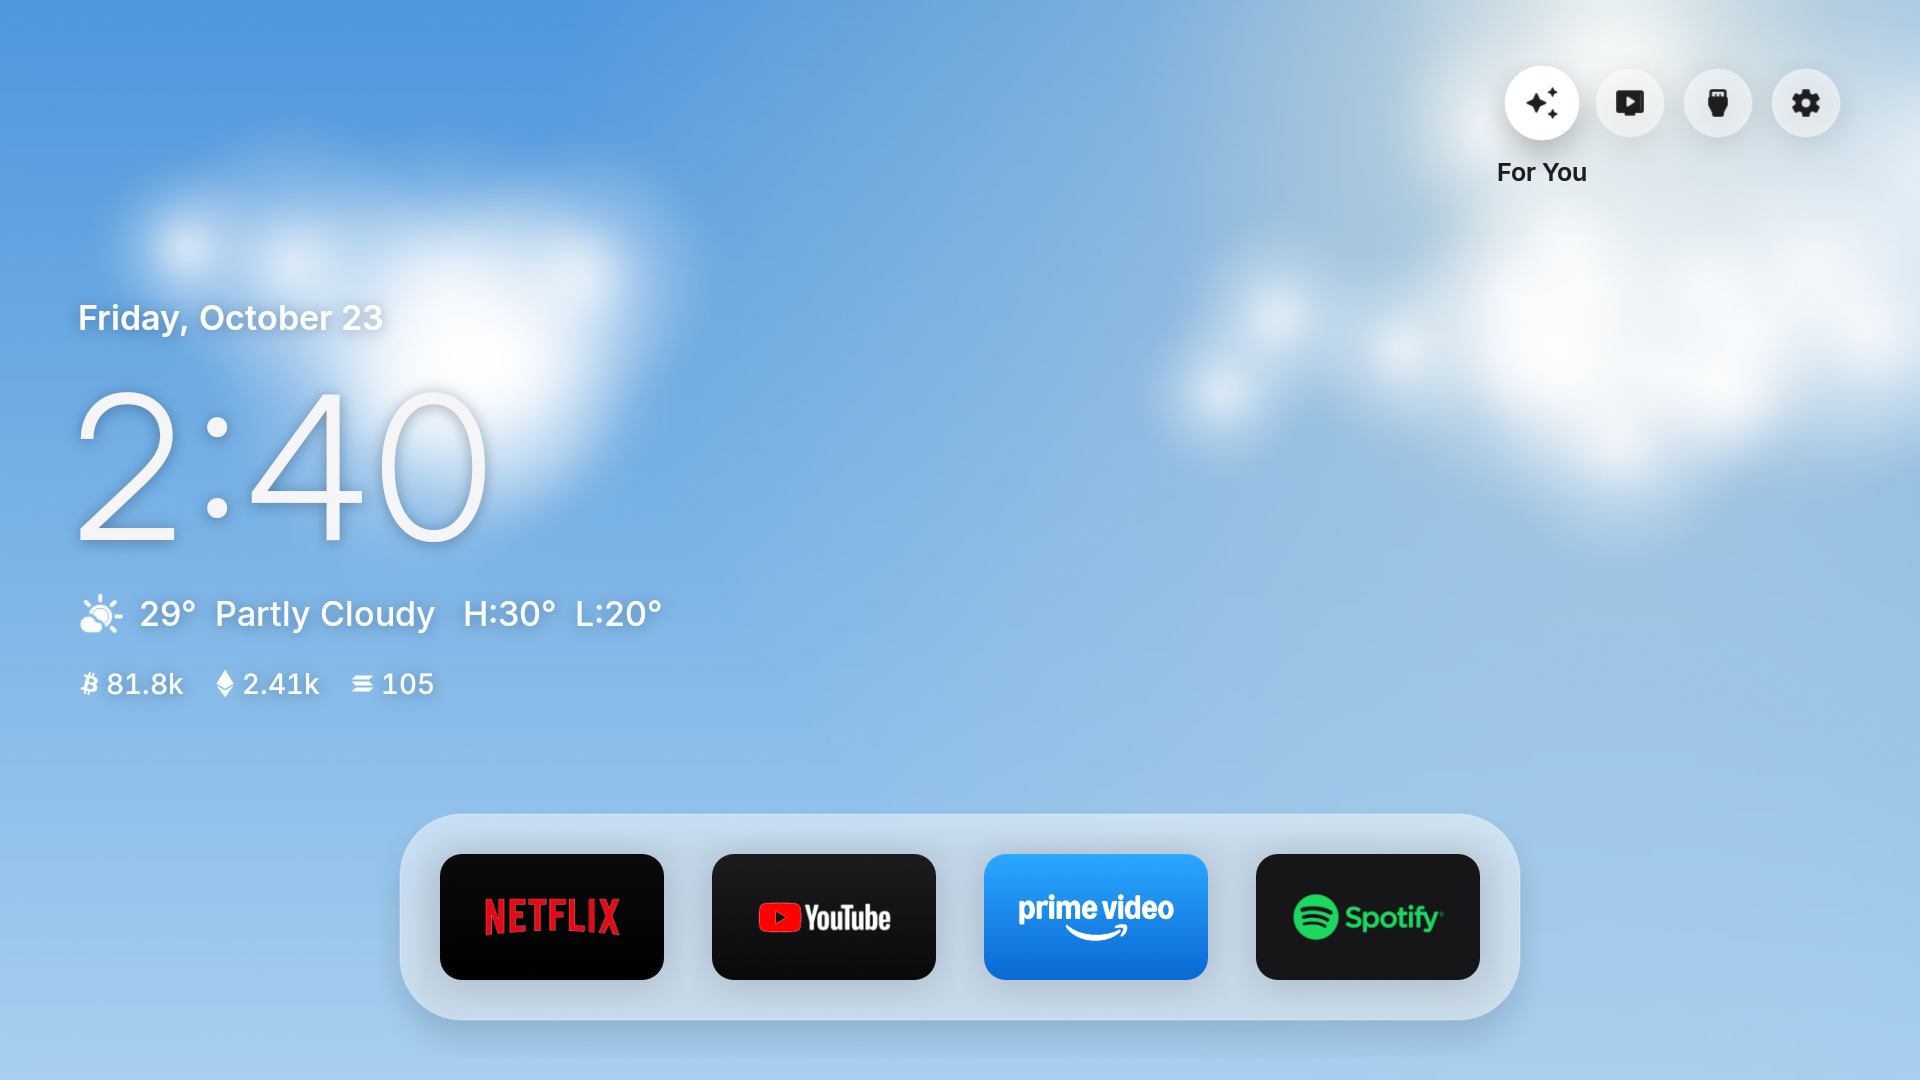
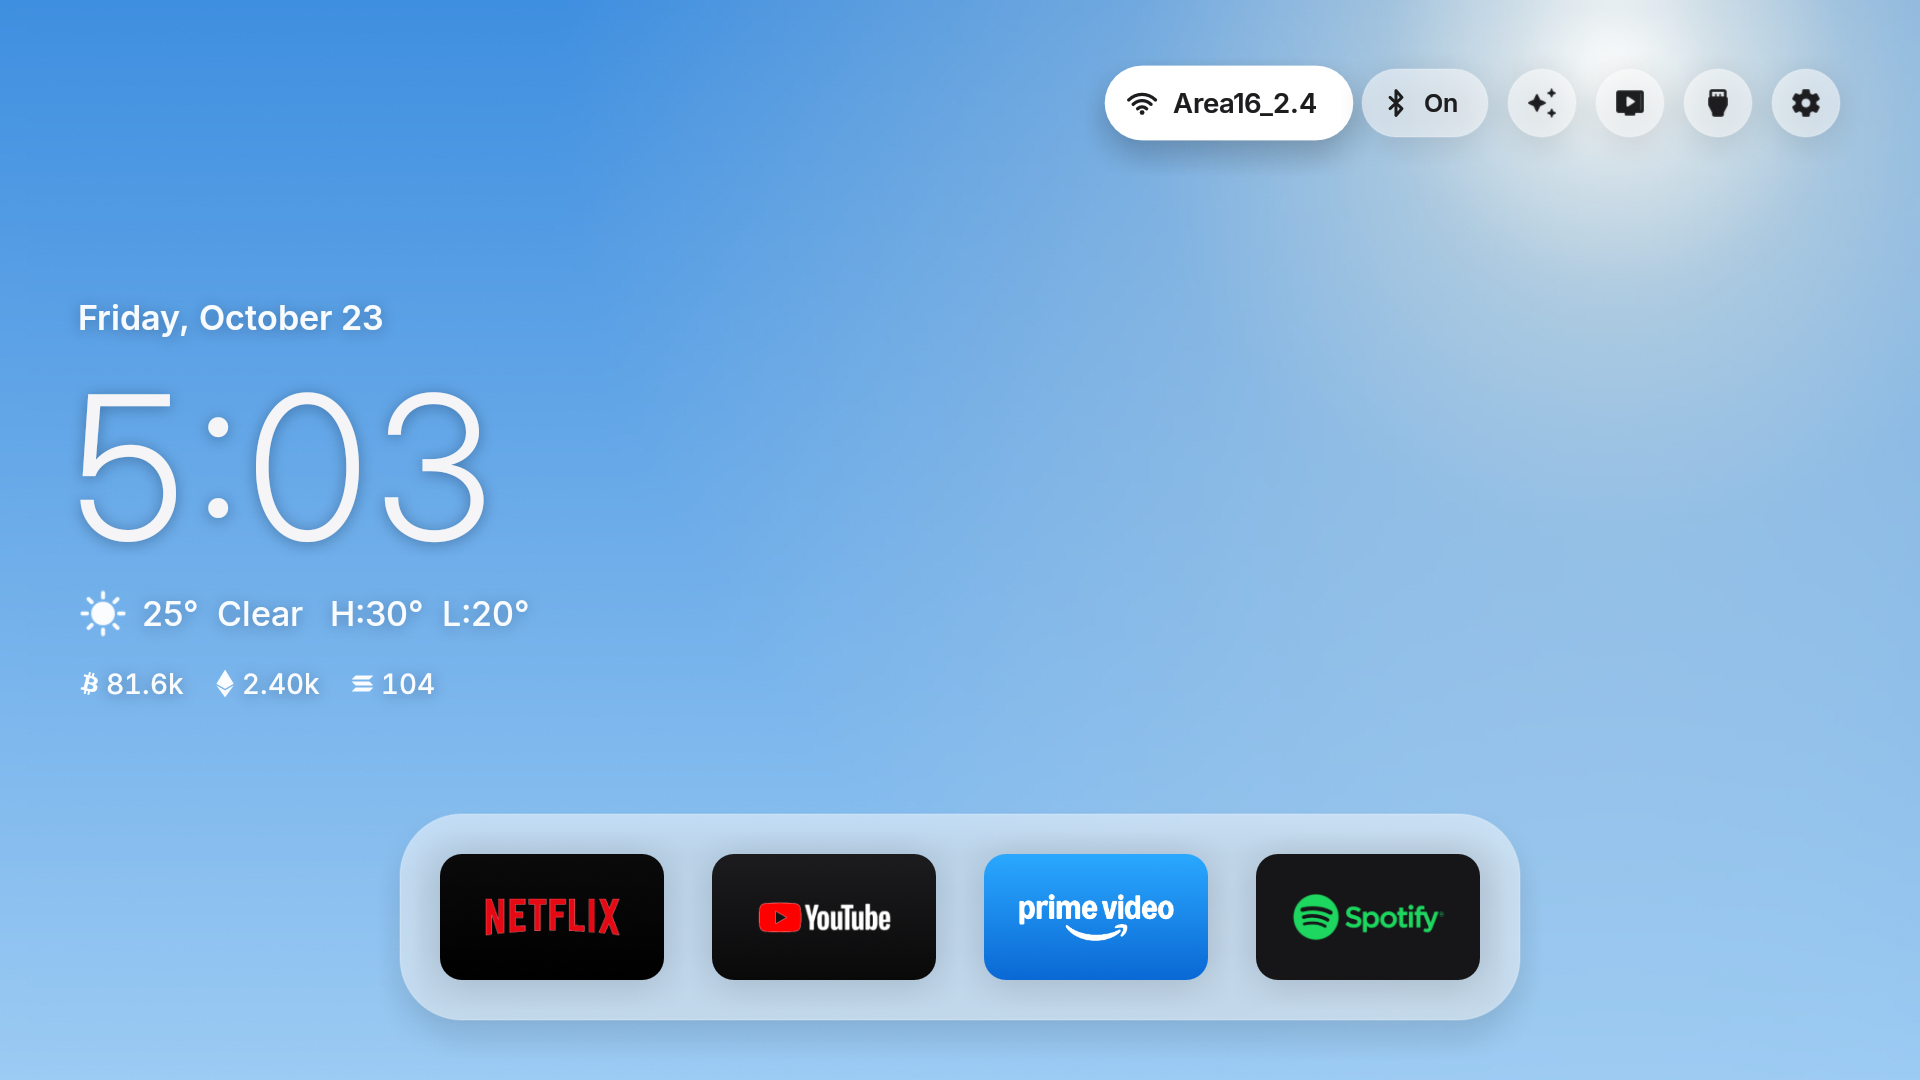
Wi-Fi and Bluetooth pills on the home screen
Two status pills before the round buttons: the Wi-Fi network's name (or
Ethernet, Not connected) and Bluetooth Off, On or Connected, refreshed every
15 s and on coming back. They open the TV's network page and Android TV's
add-accessory page (Settings if the TV has neither). New strings in all 25
catalogues.

diff --git a/app/src/main/java/io/sundartv/HomeView.java b/app/src/main/java/io/sundartv/HomeView.java
@@ -147,6 +147,11 @@ final class HomeView extends ViewGroup implements Choreographer.FrameCallback, H
     private List<Recs.Pick> allCards = new ArrayList<>();
     private int cardOffset;
     private boolean picksPage;      // the recommendations page is open (see picksOn)
+    // The Wi-Fi and Bluetooth pills (top buttons that show a status): their text, and how they're drawn.
+    private String wifiText = "", bluetoothText = "";
+    private Paint pillText, pillIcon;
+    private final Path pillPath = new Path();
+    private final RectF pillArc = new RectF();
     // Held on a card for a moment, its synopsis rises over the picture: since when it's held, and how far it's up.
     private static final long EXPAND_MS = 1500;
     private long cardFocusAt;
@@ -370,6 +375,7 @@ final class HomeView extends ViewGroup implements Choreographer.FrameCallback, H
             updatePalette();
             checkNight(true);
             updatePicks();      // three new ones every hour
+            updatePills();
             handler.postDelayed(this, 15_000);
         }
     };
@@ -446,6 +452,7 @@ final class HomeView extends ViewGroup implements Choreographer.FrameCallback, H
         checkNotices();
         if (!again) reload();
         updatePalette();
+        updatePills();      // back from the TV's network or pairing page: show what changed
         // Coming back (from an app, or with Home) opens on the clock, not on the recommendations page.
         if (picksPage) {
             picksPage = false;
@@ -629,6 +636,11 @@ final class HomeView extends ViewGroup implements Choreographer.FrameCallback, H
         synopsisPaint.setShadowLayer(10 * k, 0, 1 * k, 0x80000000);
         synopses.clear();
         lQuote = Ui.numbers(Ui.regular, 21 * k, L_FAINT);
+        pillText = Ui.text(Ui.semibold, 25 * k, L_INK);
+        pillIcon = new Paint(Paint.ANTI_ALIAS_FLAG);
+        pillIcon.setStyle(Paint.Style.STROKE);
+        pillIcon.setStrokeCap(Paint.Cap.ROUND);
+        pillIcon.setStrokeJoin(Paint.Join.ROUND);
         lTip = Ui.text(Ui.semibold, 25 * k, L_INK);
         lTip.setTextAlign(Paint.Align.CENTER);
         lDate = Ui.text(Ui.semibold, 34 * k, L_DIM);
@@ -2788,8 +2800,11 @@ final class HomeView extends ViewGroup implements Choreographer.FrameCallback, H
         }
         float b = L_BUTTON * k, right = CONTENT_R * k, cy = L_BUTTON_CY * k;
         for (int i = lightButtons.size() - 1; i >= 0; i--) {
-            topRects[TABS + i].set(right - b, cy - b / 2, right, cy + b / 2);
-            right -= b + L_BUTTON_GAP * k;
+            HomeApps.Item it = lightButtons.get(i);
+            // A pill: the icon's circle plus its status text.
+            float width = isPill(it) ? b + pillText.measureText(pillLabel(it)) + 24 * k : b;
+            topRects[TABS + i].set(right - width, cy - b / 2, right, cy + b / 2);
+            right -= width + L_BUTTON_GAP * k;
         }
         float top = L_CARDS_TOP * k, ch = L_CARD_H * k, g = L_CARD_GAP * k, left = MARGIN * k, tall = L_TALL_W * k;
         float wide = (CONTENT_R - MARGIN) * k - 2 * tall - 2 * g;
@@ -3106,8 +3121,10 @@ final class HomeView extends ViewGroup implements Choreographer.FrameCallback, H
         for (int i = 0; i < lightButtons.size(); i++) {
             HomeApps.Item it = lightButtons.get(i);
             RectF r = topRects[TABS + i];
-            float f = Ui.clamp(topFocus[TABS + i].value), s = 1 + 0.1f * f, rad = r.width() / 2 * s;
-            cell.set(r.centerX() - rad, r.centerY() - rad, r.centerX() + rad, r.centerY() + rad);
+            boolean pill = isPill(it);
+            float f = Ui.clamp(topFocus[TABS + i].value), s = 1 + 0.1f * f;
+            float rad = r.height() / 2 * s, halfW = r.width() / 2 * s;
+            cell.set(r.centerX() - halfW, r.centerY() - rad, r.centerX() + halfW, r.centerY() + rad);
             tmp.set(cell);
             tmp.offset(0, (6 + 8 * f) * k);
             shadow.setColor(Ui.alpha(0xFF000000, tone(0.1f, 0.3f) + tone(0.14f, 0.2f) * f));
@@ -3117,10 +3134,18 @@ final class HomeView extends ViewGroup implements Choreographer.FrameCallback, H
             if (f > 0.01f) {
                 fill.setShader(null);
                 fill.setColor(Ui.alpha(0xFFFFFFFF, f));
-                c.drawCircle(cell.centerX(), cell.centerY(), rad, fill);
+                c.drawRoundRect(cell, rad, rad, fill);
             }
-            Symbols.draw(getContext(), c, it.symbol, cell.centerX(), cell.centerY(), 27 * k * s,
-                    blend(tone(L_INK, 0xEBFFFFFF), L_INK, f));
+            int ink = blend(tone(L_INK, 0xEBFFFFFF), L_INK, f);
+            if (pill) {
+                drawPillIcon(c, it.kind, cell.left + rad, cell.centerY(), 27 * k * s, ink);
+                pillText.setTextSize(25 * k * s);
+                pillText.setColor(ink);
+                c.drawText(pillLabel(it), cell.left + 2 * rad - 6 * k * s, cell.centerY() + Ui.halfCap(pillText), pillText);
+                pillText.setTextSize(25 * k);
+                continue;   // the pill says what it is: no name below it
+            }
+            Symbols.draw(getContext(), c, it.symbol, cell.centerX(), cell.centerY(), 27 * k * s, ink);
             if (f > 0.01f) {
                 String label = it.label;
                 float half = lTip.measureText(label) / 2;
@@ -3128,6 +3153,53 @@ final class HomeView extends ViewGroup implements Choreographer.FrameCallback, H
                 lTip.setAlpha(Math.round(255 * f));
                 c.drawText(label, x, r.bottom + (40 + 4 * f) * k, lTip);
             }
+        }
+    }
+
+    private static boolean isPill(HomeApps.Item it) {
+        return it.kind == HomeApps.WIFI || it.kind == HomeApps.BLUETOOTH;
+    }
+
+    private String pillLabel(HomeApps.Item it) {
+        return it.kind == HomeApps.WIFI ? wifiText : bluetoothText;
+    }
+
+    /** The pills' text (every 15 s and on coming back): laid out again only when it changed. */
+    private void updatePills() {
+        String wifi = Connectivity.network(getContext()), bt = Connectivity.bluetooth();
+        if (bt == null) bt = "";
+        if (wifi.equals(wifiText) && bt.equals(bluetoothText)) return;
+        wifiText = wifi;
+        bluetoothText = bt;
+        if (pillText != null) layoutLight();
+        statusDirty = true;
+        status.invalidate();
+    }
+
+    /** Wi-Fi: a dot and three arcs. Bluetooth: its rune. Drawn (no symbol for them), centered on x, y. */
+    private void drawPillIcon(Canvas c, int kind, float x, float y, float size, int color) {
+        pillIcon.setColor(color);
+        pillIcon.setStrokeWidth(size * 0.11f);
+        if (kind == HomeApps.WIFI) {
+            float base = y + size * 0.34f;
+            for (int i = 1; i <= 3; i++) {
+                float r = size * 0.21f * i;
+                pillArc.set(x - r, base - r, x + r, base + r);
+                c.drawArc(pillArc, 225, 90, false, pillIcon);
+            }
+            pillIcon.setStyle(Paint.Style.FILL);
+            c.drawCircle(x, base - size * 0.02f, size * 0.08f, pillIcon);
+            pillIcon.setStyle(Paint.Style.STROKE);
+        } else {
+            float h = size * 0.46f, w = size * 0.22f;
+            pillPath.reset();
+            pillPath.moveTo(x - w, y - h * 0.45f);
+            pillPath.lineTo(x + w, y + h * 0.45f);
+            pillPath.lineTo(x, y + h);
+            pillPath.lineTo(x, y - h);
+            pillPath.lineTo(x + w, y - h * 0.45f);
+            pillPath.lineTo(x - w, y + h * 0.45f);
+            c.drawPath(pillPath, pillIcon);
         }
     }
 

diff --git a/app/src/main/java/io/sundartv/HomeApps.java b/app/src/main/java/io/sundartv/HomeApps.java
@@ -59,6 +59,8 @@ final class HomeApps {
     static final int INPUTS = 7;
     /** The For You button: opens the recommendations page (the home screen handles it; only with a TMDB key). */
     static final int PICKS = 8;
+    /** The Wi-Fi and Bluetooth pills: the TV's network page and its "add accessory" (pairing) page. */
+    static final int WIFI = 9, BLUETOOTH = 10;
     /** Image size of each card (16:9; on screen it shows up to ~330 px wide). */
     static final int TILE_W = 384, TILE_H = 216;
 
@@ -189,9 +191,10 @@ final class HomeApps {
 
     // MARK: - Top buttons (the round ones at the top right)
 
-    static final String TOP_PICKS = "picks", TOP_LIVE = "live", TOP_INPUTS = "inputs", TOP_SETTINGS = "settings";
-    static final List<String> TOP_DEFAULT =
-            Collections.unmodifiableList(java.util.Arrays.asList(TOP_PICKS, TOP_LIVE, TOP_INPUTS, TOP_SETTINGS));
+    static final String TOP_WIFI = "wifi", TOP_BLUETOOTH = "bluetooth", TOP_PICKS = "picks", TOP_LIVE = "live",
+            TOP_INPUTS = "inputs", TOP_SETTINGS = "settings";
+    static final List<String> TOP_DEFAULT = Collections.unmodifiableList(
+            java.util.Arrays.asList(TOP_WIFI, TOP_BLUETOOTH, TOP_PICKS, TOP_LIVE, TOP_INPUTS, TOP_SETTINGS));
     static final int MAX_TOP = TOP_DEFAULT.size();
 
     /** The keys of the top buttons, in order (Settings > Top Buttons; by default Live TV, HDMI Inputs, Settings). */
@@ -208,6 +211,7 @@ final class HomeApps {
         List<Item> items = new ArrayList<>();
         for (String key : topButtonKeys()) {
             if (key.equals(TOP_PICKS) && Config.TMDB_KEY.trim().isEmpty()) continue;
+            if (key.equals(TOP_BLUETOOTH) && Connectivity.bluetooth() == null) continue;
             items.add(topButton(key));
         }
         return items;
@@ -215,6 +219,8 @@ final class HomeApps {
 
     private static Item topButton(String key) {
         switch (key) {
+            case TOP_WIFI: return action(WIFI, TOP_WIFI, Ui.tr("Wi-Fi"), "wifi");
+            case TOP_BLUETOOTH: return action(BLUETOOTH, TOP_BLUETOOTH, "Bluetooth", "bluetooth");
             case TOP_PICKS: return action(PICKS, TOP_PICKS, Ui.tr("For You"), "sparkles");
             case TOP_LIVE: return action(LIVE_TV, TOP_LIVE, Ui.tr("light|Live TV"), "live_tv");
             case TOP_INPUTS: return action(INPUTS, TOP_INPUTS, Ui.tr("HDMI Inputs"), "hdmi");
@@ -434,8 +440,19 @@ final class HomeApps {
             case ANDROID_SETTINGS:
                 intent = new Intent(Settings.ACTION_SETTINGS);
                 break;
+            case WIFI:
+                intent = new Intent(Settings.ACTION_WIFI_SETTINGS);
+                break;
+            case BLUETOOTH:
+                // Android TV's "add accessory": pairs speakers, headphones, remotes and keyboards.
+                intent = new Intent("com.google.android.intent.action.CONNECT_INPUT");
+                break;
             default:
                 return false;
+        }
+        // A TV without that page: its Settings.
+        if ((it.kind == WIFI || it.kind == BLUETOOTH) && intent.resolveActivity(a.getPackageManager()) == null) {
+            intent = new Intent(Settings.ACTION_SETTINGS);
         }
         if (intent == null) return false;
         intent.addFlags(Intent.FLAG_ACTIVITY_NEW_TASK);

diff --git a/app/src/main/java/io/sundartv/Connectivity.java b/app/src/main/java/io/sundartv/Connectivity.java
@@ -1,0 +1,53 @@
+package io.sundartv;
+
+import android.bluetooth.BluetoothAdapter;
+import android.bluetooth.BluetoothProfile;
+import android.content.Context;
+import android.net.ConnectivityManager;
+import android.net.NetworkInfo;
+import android.net.wifi.WifiManager;
+
+/**
+ * What the Wi-Fi and Bluetooth pills at the top right of the home screen say. Joining a network or pairing a device
+ * is the TV's own Settings' job (apps can't), so the pills open those pages directly (HomeApps.open).
+ */
+final class Connectivity {
+    private Connectivity() {}
+
+    /** The Wi-Fi network's name, "Ethernet", or "Not connected". */
+    static String network(Context c) {
+        try {
+            ConnectivityManager cm = (ConnectivityManager) c.getSystemService(Context.CONNECTIVITY_SERVICE);
+            NetworkInfo n = cm == null ? null : cm.getActiveNetworkInfo();
+            if (n != null && n.isConnected()) {
+                if (n.getType() == ConnectivityManager.TYPE_ETHERNET) return Ui.tr("Ethernet");
+                if (n.getType() != ConnectivityManager.TYPE_WIFI) return Ui.tr("Connected");
+                WifiManager wm = (WifiManager) c.getApplicationContext().getSystemService(Context.WIFI_SERVICE);
+                String ssid = wm == null ? null : wm.getConnectionInfo().getSSID();
+                // Android quotes the name; "<unknown ssid>" when it won't say.
+                if (ssid != null && ssid.length() > 2 && ssid.startsWith("\"") && ssid.endsWith("\"")) {
+                    return ssid.substring(1, ssid.length() - 1);
+                }
+                return Ui.tr("Wi-Fi");
+            }
+        } catch (RuntimeException ignored) {
+        }
+        return Ui.tr("Not connected");
+    }
+
+    /** "Off", "On", or "Connected" (a speaker, headphones, a keyboard or a remote); null on a TV without Bluetooth. */
+    static String bluetooth() {
+        try {
+            BluetoothAdapter a = BluetoothAdapter.getDefaultAdapter();
+            if (a == null) return null;
+            if (!a.isEnabled()) return Ui.tr("Off");
+            // 4: BluetoothProfile.INPUT_DEVICE (hidden in the SDK), remotes and keyboards.
+            for (int profile : new int[] {BluetoothProfile.A2DP, BluetoothProfile.HEADSET, 4}) {
+                if (a.getProfileConnectionState(profile) == BluetoothProfile.STATE_CONNECTED) return Ui.tr("Connected");
+            }
+            return Ui.tr("On");
+        } catch (RuntimeException e) {
+            return Ui.tr("On");
+        }
+    }
+}

diff --git a/README.md b/README.md
@@ -26,6 +26,8 @@ follows the sky outside.
   with the time, date and weather at the top.
 - **Settings over a frosted mountain lake** at dusk.
 - **The clock and the weather** at a glance, with text colors that match the sky.
+- **Wi-Fi and Bluetooth pills** at the top right: your network's name and whether Bluetooth is on. One press opens the
+  TV's network page (join or switch networks) or its pairing page (speakers, headphones, remotes).
 - **Safe.** No root, nothing uninstalled. One button brings back the TV's original home screen.
 
 ## Install (Android TV / Google TV)
